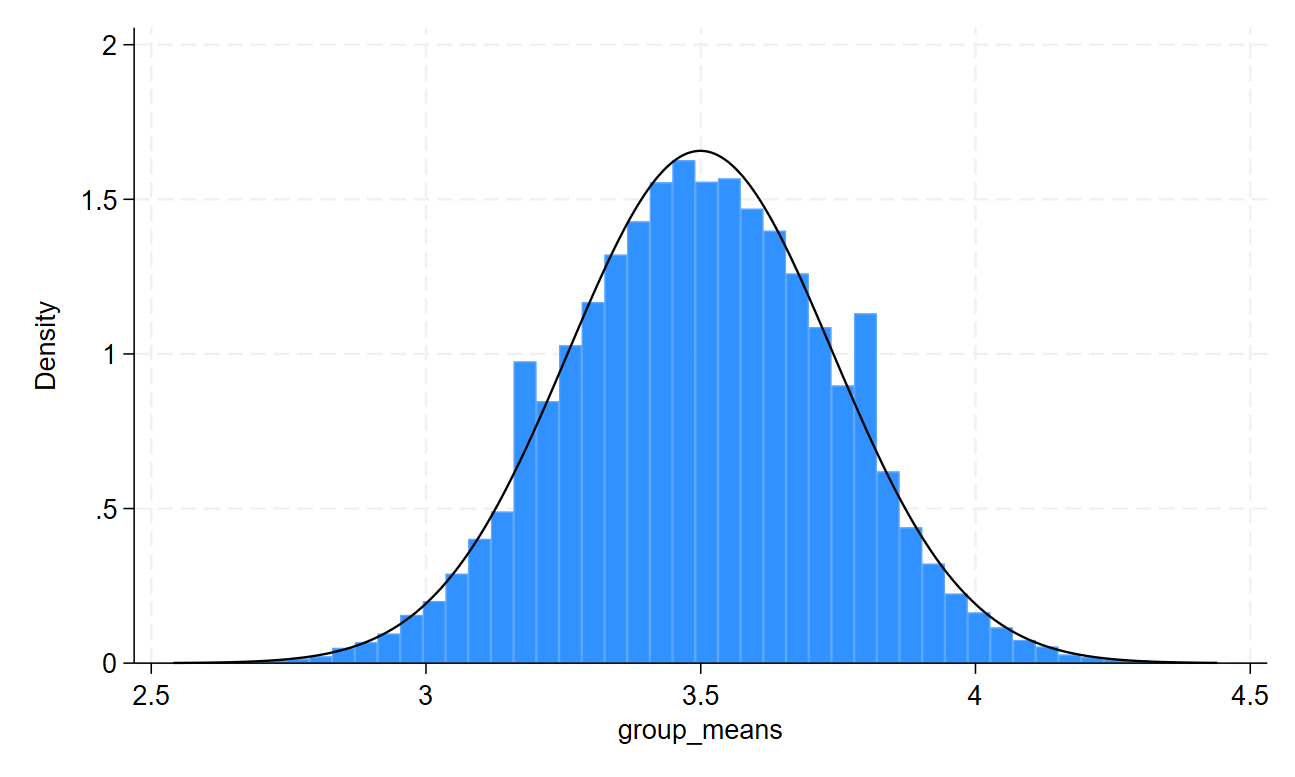
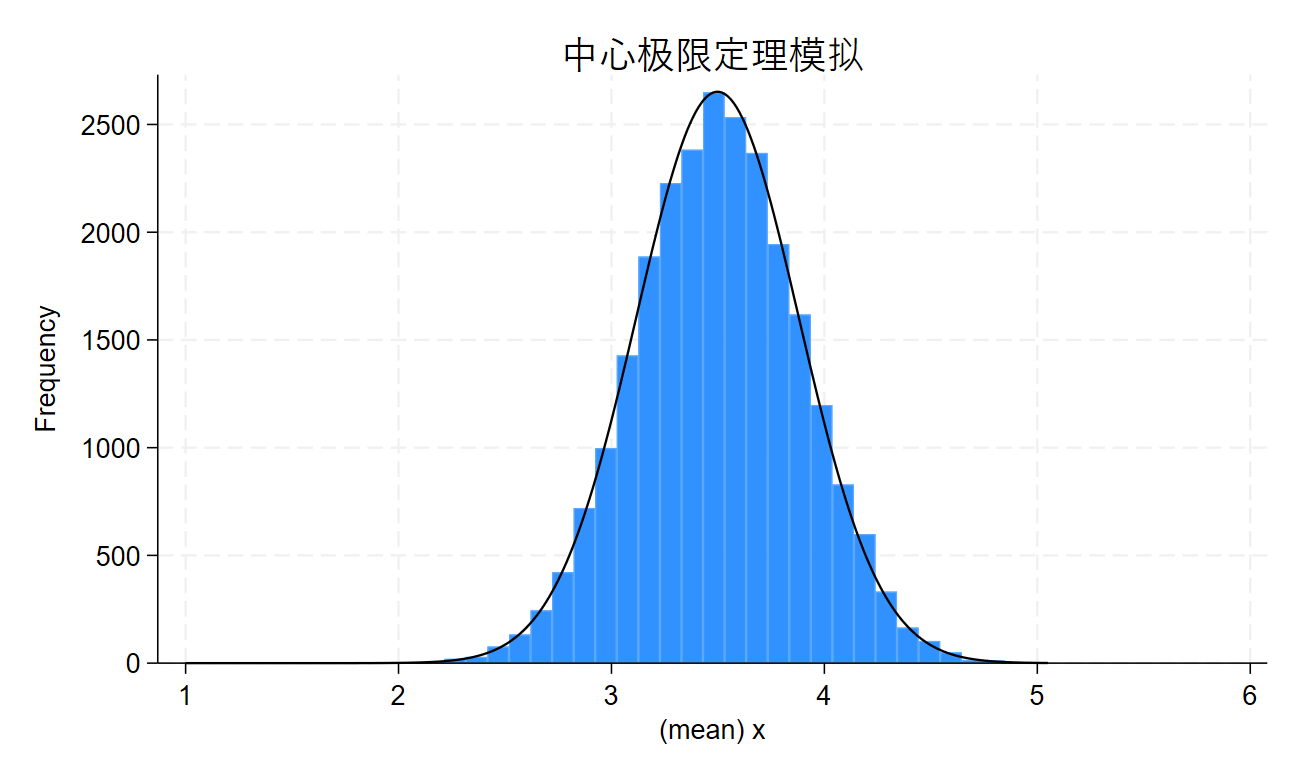
Site updated: 2024-11-17 14:18:42

diff --git a/2024/11/15/stata模拟中心极限定理/index.html b/2024/11/15/stata模拟中心极限定理/index.html
@@ -13,20 +13,20 @@
   <link rel='manifest' href='&lt;path-to-manifest&gt;'>
   
 
-  <meta name="description" content="&#x2F;* 设置文本为衬线体 *&#x2F;   .serif-text {     font-family: &#39;Georgia&#39;, &#39;Times New Roman&#39;, serif;   }   关于中心极限定理的模拟 do文件如下：   clear set seed 101   &#x2F;&#x2F; 让我给试出个好看的图 set obs 50000  &#x2F;&#x2F; 设置 50000 个观测值，用于存储均值  * 预先生成 gr">
+  <meta name="description" content="&#x2F;* 设置文本为衬线体 *&#x2F;   .serif-text {     font-family: &#39;Georgia&#39;, &#39;Times New Roman&#39;, serif;   }   关于中心极限定理的模拟 do文件如下：   set seed 52 set obs 500000  &#x2F;&#x2F; 设置总样本数  * 如果变量 group_id 已经存在，删除旧变量 capture drop group">
 <meta property="og:type" content="article">
 <meta property="og:title" content="Stata模拟中心极限定理">
 <meta property="og:url" content="https://daseinzc.github.io/2024/11/15/stata%E6%A8%A1%E6%8B%9F%E4%B8%AD%E5%BF%83%E6%9E%81%E9%99%90%E5%AE%9A%E7%90%86/index.html">
 <meta property="og:site_name" content="daseinzc">
-<meta property="og:description" content="&#x2F;* 设置文本为衬线体 *&#x2F;   .serif-text {     font-family: &#39;Georgia&#39;, &#39;Times New Roman&#39;, serif;   }   关于中心极限定理的模拟 do文件如下：   clear set seed 101   &#x2F;&#x2F; 让我给试出个好看的图 set obs 50000  &#x2F;&#x2F; 设置 50000 个观测值，用于存储均值  * 预先生成 gr">
+<meta property="og:description" content="&#x2F;* 设置文本为衬线体 *&#x2F;   .serif-text {     font-family: &#39;Georgia&#39;, &#39;Times New Roman&#39;, serif;   }   关于中心极限定理的模拟 do文件如下：   set seed 52 set obs 500000  &#x2F;&#x2F; 设置总样本数  * 如果变量 group_id 已经存在，删除旧变量 capture drop group">
 <meta property="og:locale" content="en_US">
-<meta property="og:image" content="https://s2.loli.net/2024/11/16/tegFTBSOJbhRKaM.png">
+<meta property="og:image" content="https://s2.loli.net/2024/11/17/vWnNJ3GOCzFpZ15.png">
 <meta property="article:published_time" content="2024-11-15T15:00:00.000Z">
-<meta property="article:modified_time" content="2024-11-17T02:37:49.386Z">
+<meta property="article:modified_time" content="2024-11-17T06:18:00.989Z">
 <meta property="article:author" content="daseinzc">
 <meta property="article:tag" content="Stata">
 <meta name="twitter:card" content="summary">
-<meta name="twitter:image" content="https://s2.loli.net/2024/11/16/tegFTBSOJbhRKaM.png">
+<meta name="twitter:image" content="https://s2.loli.net/2024/11/17/vWnNJ3GOCzFpZ15.png">
 
   
   
@@ -186,47 +186,28 @@
 <p class="serif-text">do文件如下：</p>
 
 
-<pre><code class="stata">clear
-set seed 101   // 让我给试出个好看的图
-set obs 50000  // 设置 50000 个观测值，用于存储均值
+<pre><code class="stata">set seed 52
+set obs 500000  // 设置总样本数
 
-* 预先生成 group_means 变量，用于存储每次计算的均值
-generate group_means = .
+* 如果变量 group_id 已经存在，删除旧变量
+capture drop group_id
+generate group_id = ceil(_n / 20)  // 将样本分成组，每组20个样本
 
-capture frame drop temp_frame
-frame create temp_frame 
+* 一次性生成随机数据
+generate x = runiformint(1, 6)
 
-* 循环生成样本并计算均值
-forvalues i = 1/50000 &#123;
-    frame temp_frame&#123;
-        clear     // 新建一个frame
-        
-        quietly&#123;
-            set obs 50 //样本数
-            generate x = runiformint(1,6)  // 每个样本包含 50 个 1 到 6 的随机整数
+* 按组计算均值
+collapse (mean) group_means = x, by(group_id)
 
-            * 计算样本均值
-            summarize x, meanonly
-            
-            scalar temp_mean = r(mean)  // 将均值保存到标量 temp_mean
-        &#125;
-    &#125;
-    
-    quietly replace group_means = temp_mean in `i&#39;
-    
-    if mod(`i&#39;, 2500) == 0 &#123;
-        display &quot;Progress: &quot; %5.2f ((`i&#39;/50000)*100) &quot;% complete&quot;
-    &#125;
-&#125;
-
-frame drop temp_frame //删除临时框架 
-
-* 绘制 group_means 的直方图叠加正态分布曲线
-histogram group_means, start(1) normal 
+* 绘制直方图叠加正态分布曲线
+histogram group_means, start(1) bin(40) frequency normal ///
+    xscale(range(1 6)) xlabel(1(1)6) ///
+    title(&quot;中心极限定理模拟&quot;)
 </code></pre>
 <p class="serif-text">如图所示：</p>
 
-<p><a href="https://sm.ms/image/tegFTBSOJbhRKaM" target="_blank"><img src="https://s2.loli.net/2024/11/16/tegFTBSOJbhRKaM.png" /></a></p>
+
+<p><a href="https://sm.ms/image/vWnNJ3GOCzFpZ15" target="_blank"><img src="https://s2.loli.net/2024/11/17/vWnNJ3GOCzFpZ15.png" /></a></p>
 
     </div>
 

diff --git a/about/index.html b/about/index.html
@@ -13,12 +13,12 @@
   <link rel='manifest' href='&lt;path-to-manifest&gt;'>
   
 
-  <meta name="description" content="超级无敌帅气英俊潇洒风流倜傥的帅哥一枚在校大学生（社科QAQ）做个人网站主要是好玩！！！大概会闲着没事会写一些东西吧嘿嘿 网页比较粗糙，见谅喽！！！ 联系方式：邮箱：&#x64;&#97;&#115;&#101;&#105;&#x6e;&#122;&#x63;&#64;&#x6f;&#117;&#116;&#x6c;&#111;&#111;&#107;&#x2e;&#99;&#x6f;&#109;">
+  <meta name="description" content="超级无敌帅气英俊潇洒风流倜傥的帅哥一枚在校大学生（社科QAQ）做个人网站主要是好玩！！！大概会闲着没事会写一些东西吧嘿嘿 网页比较粗糙，见谅喽！！！ 联系方式：邮箱：&#x64;&#97;&#x73;&#x65;&#x69;&#110;&#122;&#x63;&#64;&#111;&#x75;&#x74;&#x6c;&#x6f;&#x6f;&#107;&#46;&#99;&#111;&#109;">
 <meta property="og:type" content="website">
 <meta property="og:title" content="daseinzc">
 <meta property="og:url" content="https://daseinzc.github.io/about/index.html">
 <meta property="og:site_name" content="daseinzc">
-<meta property="og:description" content="超级无敌帅气英俊潇洒风流倜傥的帅哥一枚在校大学生（社科QAQ）做个人网站主要是好玩！！！大概会闲着没事会写一些东西吧嘿嘿 网页比较粗糙，见谅喽！！！ 联系方式：邮箱：&#x64;&#97;&#115;&#101;&#105;&#x6e;&#122;&#x63;&#64;&#x6f;&#117;&#116;&#x6c;&#111;&#111;&#107;&#x2e;&#99;&#x6f;&#109;">
+<meta property="og:description" content="超级无敌帅气英俊潇洒风流倜傥的帅哥一枚在校大学生（社科QAQ）做个人网站主要是好玩！！！大概会闲着没事会写一些东西吧嘿嘿 网页比较粗糙，见谅喽！！！ 联系方式：邮箱：&#x64;&#97;&#x73;&#x65;&#x69;&#110;&#122;&#x63;&#64;&#111;&#x75;&#x74;&#x6c;&#x6f;&#x6f;&#107;&#46;&#99;&#111;&#109;">
 <meta property="og:locale" content="en_US">
 <meta property="article:published_time" content="2024-07-11T13:39:16.000Z">
 <meta property="article:modified_time" content="2024-07-12T14:09:50.559Z">
@@ -169,7 +169,7 @@
     <div class="content">
         <h1 id="超级无敌帅气英俊潇洒风流倜傥的帅哥一枚"><a href="#超级无敌帅气英俊潇洒风流倜傥的帅哥一枚" class="headerlink" title="超级无敌帅气英俊潇洒风流倜傥的帅哥一枚"></a><strong>超级无敌帅气英俊潇洒风流倜傥的帅哥一枚</strong></h1><p><strong>在校大学生（社科QAQ）</strong><br><strong>做个人网站主要是好玩！！！</strong><br><strong>大概会闲着没事会写一些东西吧</strong><br><strong>嘿嘿</strong></p>
 <p><strong>网页比较粗糙，见谅喽！！！</strong></p>
-<h4 id="联系方式："><a href="#联系方式：" class="headerlink" title="联系方式："></a>联系方式：</h4><p><strong>邮箱：<a href="mailto:&#x64;&#97;&#115;&#101;&#105;&#x6e;&#122;&#x63;&#64;&#x6f;&#117;&#116;&#x6c;&#111;&#111;&#107;&#x2e;&#99;&#x6f;&#109;">&#x64;&#97;&#115;&#101;&#105;&#x6e;&#122;&#x63;&#64;&#x6f;&#117;&#116;&#x6c;&#111;&#111;&#107;&#x2e;&#99;&#x6f;&#109;</a></strong></p>
+<h4 id="联系方式："><a href="#联系方式：" class="headerlink" title="联系方式："></a>联系方式：</h4><p><strong>邮箱：<a href="mailto:&#x64;&#97;&#x73;&#x65;&#x69;&#110;&#122;&#x63;&#64;&#111;&#x75;&#x74;&#x6c;&#x6f;&#x6f;&#107;&#46;&#99;&#111;&#109;">&#x64;&#97;&#x73;&#x65;&#x69;&#110;&#122;&#x63;&#64;&#111;&#x75;&#x74;&#x6c;&#x6f;&#x6f;&#107;&#46;&#99;&#111;&#109;</a></strong></p>
 
     </div>
 

diff --git a/categories/index.html b/categories/index.html
@@ -164,7 +164,7 @@
     <div class="divider"></div>
     <div class="categories">
         
-        <a href="/categories/NCRE-Study/" class="category">NCRE Study</a><a href="/categories/Study/" class="category">Study</a><a href="/categories/github/" class="category">github</a><a href="/categories/review/" class="category">review</a><a href="/categories/Math-Study/" class="category">Math Study</a><a href="/categories/Social-Psychology-Study/" class="category">Social Psychology Study</a><a href="/categories/Sociology-Study/" class="category">Sociology Study</a>
+        <a href="/categories/NCRE-Study/" class="category">NCRE Study</a><a href="/categories/github/" class="category">github</a><a href="/categories/review/" class="category">review</a><a href="/categories/Study/" class="category">Study</a><a href="/categories/Social-Psychology-Study/" class="category">Social Psychology Study</a><a href="/categories/Math-Study/" class="category">Math Study</a><a href="/categories/Sociology-Study/" class="category">Sociology Study</a>
     </div>
 </div>
 

diff --git a/tags/index.html b/tags/index.html
@@ -164,7 +164,7 @@
     <div class="divider"></div>
     <div class="tags">
         
-        <a href="/tags/NCRE/" class="tag">#NCRE</a><a href="/tags/Python/" class="tag">#Python</a><a href="/tags/Open-Source/" class="tag">#Open Source</a><a href="/tags/Stata/" class="tag">#Stata</a><a href="/tags/Sociology/" class="tag">#Sociology</a><a href="/tags/Machine-learning/" class="tag">#Machine learning</a>
+        <a href="/tags/NCRE/" class="tag">#NCRE</a><a href="/tags/Open-Source/" class="tag">#Open Source</a><a href="/tags/Sociology/" class="tag">#Sociology</a><a href="/tags/Stata/" class="tag">#Stata</a><a href="/tags/Python/" class="tag">#Python</a><a href="/tags/Machine-learning/" class="tag">#Machine learning</a>
     </div>
 </div>
 
